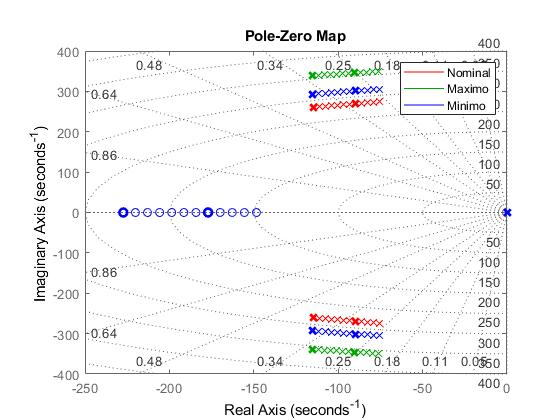
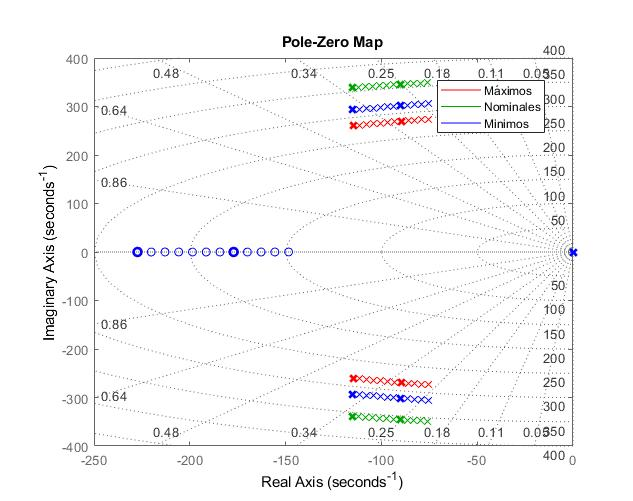
Agrega analisis estabilidad LPV, agrega analisis para sistema LTI aumentado y simplificado, agrega media de simu dinamica

diff --git a/scripts/transferencia_lti_simplificado.m b/scripts/transferencia_lti_simplificado.m
@@ -1,16 +1,54 @@
 clear; clc;
-% Calculos funciones de transferencia para sistema LTI simplificado
-syms b_eq J_eq P_p lambda_m L_q R_s r s L_d;
-A = [0 1                 0 
-     0 -b_eq/J_eq        3*P_p*lambda_m/(2*J_eq)
-     0 -P_p*lambda_m/L_q -R_s/L_q];
-B = [ 0     0           0
-      0     -1/(J_eq*r) 0
-      1/L_q 0           0];
-C = [1 0 0];
-D = [0 0 0];
+% evaluate = "simplificado";
+evaluate = "aumentado";
+agregar_vds = true;
 
-sys_tf = (C/(s*eye(3)-A))*B + D;
+fprintf("ANALISIS PARA SISTEMA LTI %s\n-------------------------------------\n", evaluate);
+syms b_eq J_eq P_p lambda_m L_q R_s r s L_d theta_m omega_m iqs ids vqs Tl vds;
+if evaluate == "simplificado"
+    % Calculos funciones de transferencia para sistema LTI simplificado
+    x = [theta_m; omega_m; iqs];
+    u = [vqs; Tl];
+    
+    A = [0 1                 0 
+         0 -b_eq/J_eq        3*P_p*lambda_m/(2*J_eq)
+         0 -P_p*lambda_m/L_q -R_s/L_q];
+    B = [ 0     0          
+          0     -1/(J_eq*r)
+          1/L_q 0          ];
+    C = [1 0 0];
+    D = [0 0];
+    
+elseif evaluate == "aumentado"
+    % Calculos funciones de transferencia para sistema LTI aumentado
+    x = [theta_m; omega_m; iqs; ids];
+    
+    A = [0 1                 0                       0
+         0 -b_eq/J_eq        3*P_p*lambda_m/(2*J_eq) 0
+         0 -P_p*lambda_m/L_q -R_s/L_q                0
+         0 0                 0                       -R_s/L_d];
+    % Sin controlar sobre vds(t)
+    u = [vqs; Tl];
+    B = [ 0     0          
+          0     -1/(J_eq*r)
+          1/L_q 0          
+          0     0];
+    C = [1 0 0 0];
+    D = [0 0];
+    
+    if agregar_vds
+        % Controlando sobre vds(t)
+        u = [vqs; vds; Tl];
+        B = [ 0     0    0          
+              0     0    -1/(J_eq*r)
+              1/L_q 0    0          
+              0     1/L_d    0];
+        D = [0 0 0];
+    end 
+         
+end
+n = length(x);
+sys_tf = (C/(s*eye(n)-A))*B + D;
 disp("==== ESTABILIDAD - funciones de transferencia del sistema");
 disp("OMEGA(S)/V_Q(s):");
 disp(sys_tf(1));
@@ -29,52 +67,78 @@ disp("==== ESTABILIDAD - ceros del sistema");
 disp("Ceros OMEGA(s)/V_D(s):");
 [num, ~] = numden(sys_tf(1));
 eqn = num == 0;
-zeros = simplify(solve(eqn, s));
-disp(zeros);
+zeros_ = simplify(solve(eqn, s));
+disp(zeros_);
 
 % Zros para transferencia OMEGA(s)/T_L(s)
 disp("Ceros OMEGA(s)/T_L(s):");
 [num, ~] = numden(sys_tf(2));
 eqn = num == 0;
-zeros = simplify(solve(eqn, s));
-disp(zeros);
+zeros_ = simplify(solve(eqn, s));
+disp(zeros_);
 
 %=================================================
 %                Observabilidad
 %=================================================
-disp("==== OBSERVABILIDAD - para theta_m")
-C =  [1 0 0]; % theta_m
-O_ = [C
-      C*A
-      C*(A*A)]
-fprintf('Rango de observabilidad: %d -> es observable desde la salida theta_m',rank(O_));
+for i=1:n
+    fprintf("~~~~~~~~~~~~~~~~~~~~~~\nAnalisis observabilidad para %s:\n", char(x(i)));
+    C_temp = zeros(1, n);
+    C_temp(i) = 1;
+    
+    O_ = observabilidad_kalman(A, C_temp);
+    
+    rango = rank(O_);
+    if rango == n
+        display_msg = "OBSERVABLE";
+    else
+        display_msg = "NO OBSERVABLE";        
+    end
+    disp("Matriz de observabilidad:");
+    disp(O_);
+    fprintf("El sistema es %s desde %s por que su rango = %d\n", display_msg, char(x(i)), rango);
+end
 
-disp("==== OBSERVABILIDAD - para w_m")
-C =  [0 1 0]; % w_m
-O_ = [C
-      C*A
-      C*(A*A)]
-fprintf('Rango de observabilidad: %d -> NO es observable desde la salida w_m',rank(O_));
+fprintf("Rango matriz observabilidad para C = [1 0 0 1]: %d\n", rank(observabilidad_kalman(A, [1 0 0 1])));
 
-disp("==== OBSERVABILIDAD - para i_q")
-C =  [0 0 1]; % i_q
-O_ = [C
-      C*A
-      C*(A*A)]
-fprintf('Rango de observabilidad: %d -> NO es observable desde la salida i_q\n',rank(O_));
- 
 %=================================================
 %                Controlabilidad
 %=================================================
 disp("==== CONTROLABILIDAD ====")
-B_aux = B(:,1);  % La entrada T_l es una perturbacion (no se puede controlar). Usamos solo la tension v_q
-C_ = [B_aux,A*B_aux,(A*A)*B_aux]
-fprintf('Rango de controlabilidad: %d -> el modelo LTI SIMPLIFICADO es controlable desde v_q\n\n',rank(C_));
-disp('Modelo LTI AUMENTADO -> dinamica residual del eje d, que agrega i_d que no tiene entrada')
-disp(' => sistema NO es totalmente controlable desde v_q')
-disp(' ==> se agrega una entrada al eje d')
-B_aux = [[B(:,1);0] [0; 0; 0; 1/L_d]];
-A_aux = [[A(:,1);0] [A(:,2);0] [A(:,3);0] [0;0;0;-R_s/L_d]];
-C_ = [B_aux, A_aux*B_aux, (A_aux*A_aux)*B_aux]
-fprintf('Rango de controlabilidad: %d -> el modelo LTI AUMENTADO es controlable desde v_q y v_d',rank(C_));
+m = length(u);
+
+B_aux = B(:,1:m-1);  % La entrada T_l es una perturbacion (no se puede controlar). Usamos solo la tension v_q
+
+entradas_msg = "[";
+for i=1:m-2
+    entradas_msg = entradas_msg + char(u(i)) + ", ";
+end
+entradas_msg = entradas_msg + char(u(m-1)) + "]";
+
+C_ = controlabilidad_kalman(A, B_aux);
+rango = rank(C_);
+
+if rango == n
+    display_msg = "CONTROLABLE";
+else
+    display_msg = "NO CONTROLABLE";
+end
+disp("Matriz de controlabilidad");
+disp(C_);
+% fprintf("El sistema es %s desde %s por que su rango = %d\n", display_msg, entradas_msg, rango);
+
+function O_ = observabilidad_kalman(A, C)
+n = length(A);
+O_= [];
+for i=1:n
+    O_ = [O_; simplify(C*A^(i-1))];
+end
+end
+
+function C_ = controlabilidad_kalman(A, B)
+n = length(A);
+C_ = [];
+for i=1:n
+    C_ = [C_ A^(i-1)*B];
+end
+end
  
